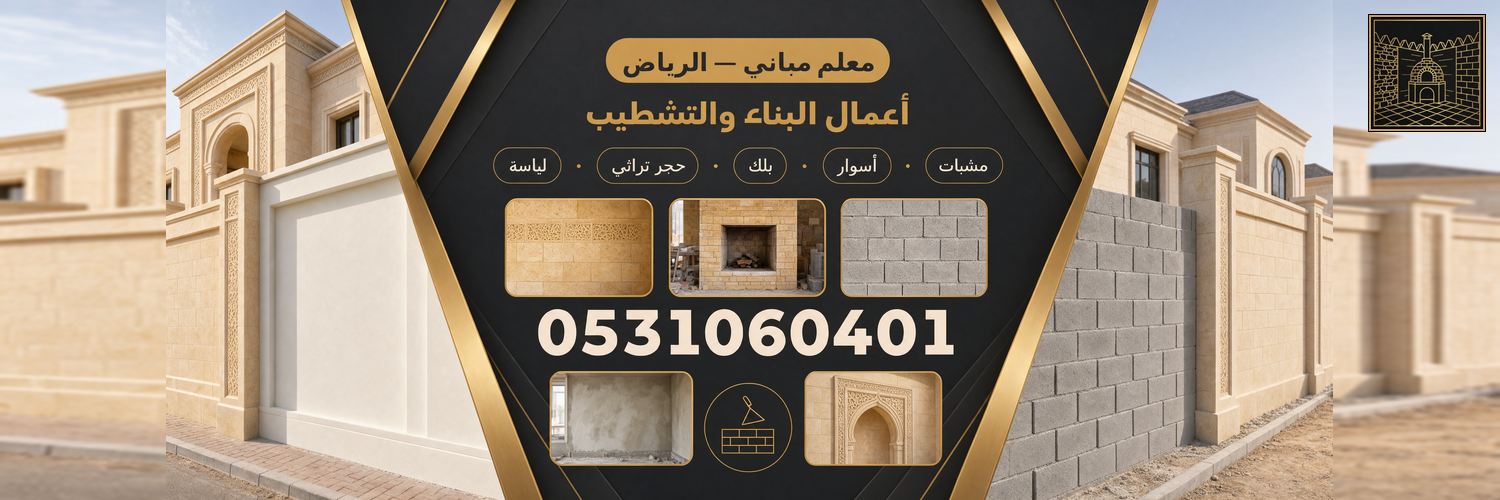
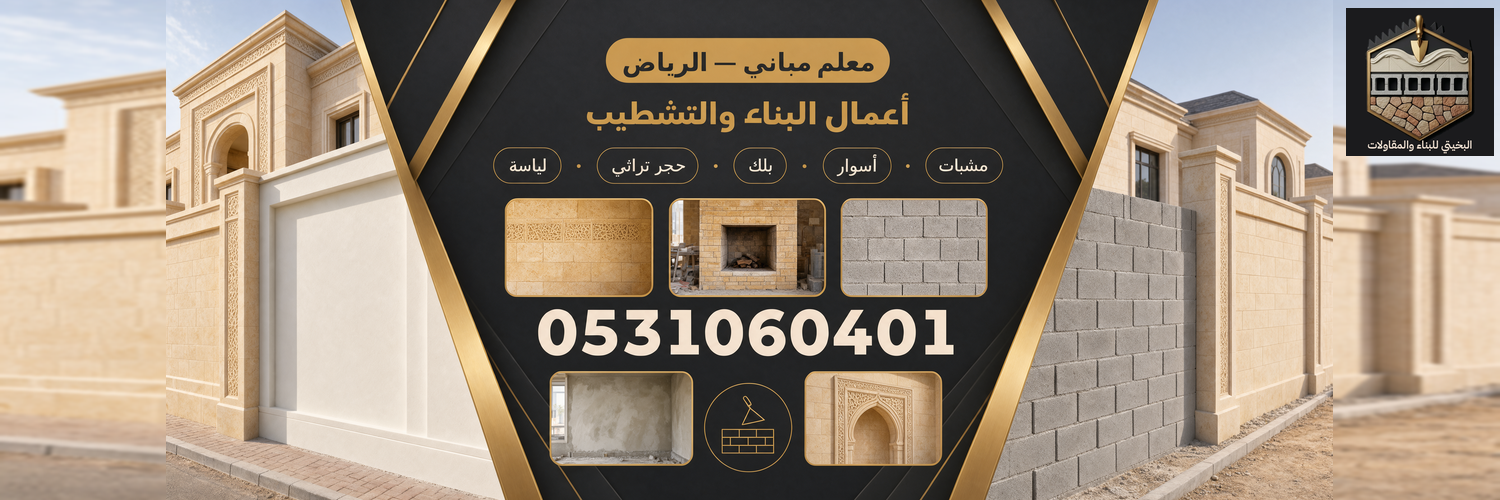
تركيب الشعار الجديد في المتجر والموقع والأغلفة
شعار المتجر والموقع 400×400 من الشعار الفني. الشارة القديمة على الأغلفة الثلاثة أُبدلت بالشعار الجديد.

Changed region(s): [[0.8893, 0.0, 1.0, 0.33]]

diff --git a/الهوية/العلامة-المائية.md b/الهوية/العلامة-المائية.md
@@ -27,7 +27,7 @@ tags:
 ```
 
 العلامة المائية على صور الإعلان تبقى الاسم والرقم فقط.
-غلاف المتجر المعتمد فيه الشعار، وشارة معلم مباني، وتسميات الشغل اللي في الصورة. لا تُبدّل الشارة ولا تُحذف التسميات إلا بأمر.
+غلاف المتجر المعتمد فيه الشعار الجديد في الزاوية، وشارة معلم مباني، وتسميات الشغل اللي في الصورة. لا تُبدّل الشارة ولا تُحذف التسميات إلا بأمر.
 
 ^النص-المعتمد
 
